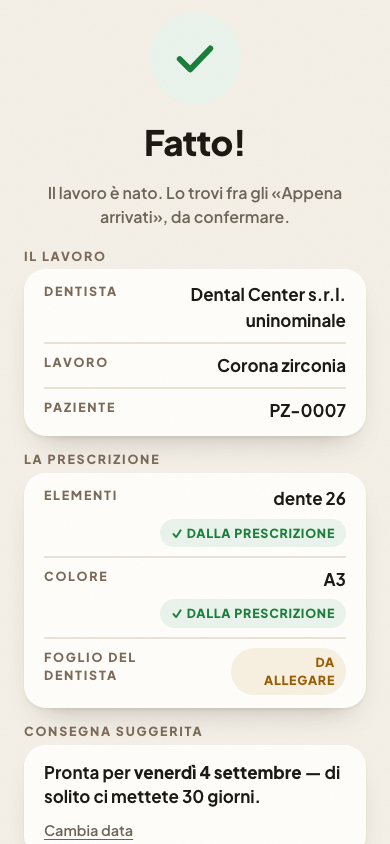
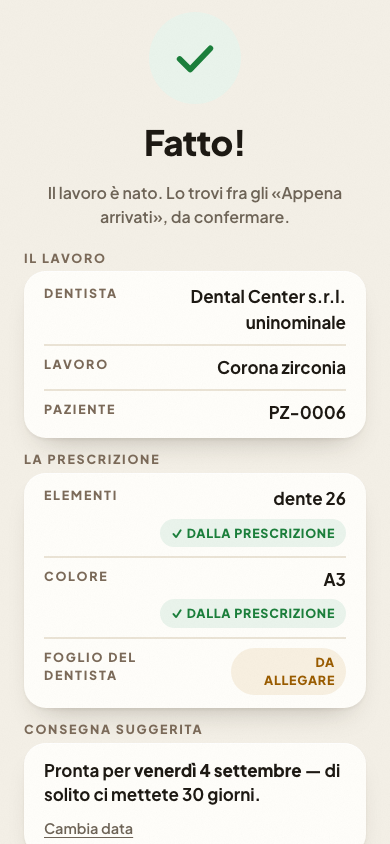
fix(ui): la revisione del delta trova un difetto NEL compattamento — 1px fra due bersagli
Due revisori indipendenti sul solo delta b983870e..HEAD (il resto del ramo era
già approvato). Verdetti: design system APPROVED, correttezza NEEDS FIXES —
e aveva ragione.

🔴 IL DIFETTO. `stileQuieti.marginTop` 18 → 14 sembrava uno spazio come un
   altro. Ma `LinkQuieto` compra la sua area toccabile da 44px con
   `padding 13px 0` + `margin -13px 0`, e quel −13 risale DENTRO il marginTop
   del contenitore (i margini di un flex item non collassano): l'aria vera fra
   l'area del tasto rosso e quella del primo quieto era `marginTop − 13`, cioè
   **1px**. Sulla schermata terminale del wizard: un pollice 2px basso su
   «Allega la prescrizione» apriva la fotocamera, e a fonte allegata se ne
   andava dalla schermata con «Torna alla home».
   🔑 È la STESSA aritmetica che il blocco 🛑 di questo file protegge fra i due
      quieti — e il compattamento l'aveva rotta dall'altro lato, tre righe più
      sotto il commento che la spiega. Ora 20 (spazio.ml): 7px, più dei 5 di
      partenza, e su griglia.

🔴 TRE SPAZIATURE FUORI GRIGLIA §4.2 introdotte dallo stesso compattamento: 18
   non esiste nella scala (4/8/12/16/20/24/32/44) e 14 è ammesso solo nel
   regime viewport ≤700px. Ora tutte da `spazio.*`. Il compattamento resta:
   −26px misurati (1093 → 1067), invece dei −30 fuori scala.
   ⚠ Nessuna guardia meccanica controlla la griglia — riferito nell'handoff.

🟡 `Avviso` senza tetto d'altezza: togliendo il taglio agli errori, quattro
[…]

diff --git a/src/components/features/wizard/FrameFatto.tsx b/src/components/features/wizard/FrameFatto.tsx
@@ -362,7 +362,7 @@ export function FrameFatto(props: {
       </div>
 
       {/* ── Carta ① «Il lavoro» — la caption sta FUORI dalla carta (mockup) ── */}
-      <section aria-labelledby={idCartaLavoro} style={{ marginTop: 18 }}>
+      <section aria-labelledby={idCartaLavoro} style={{ marginTop: spazio.ml }}>
         <p id={idCartaLavoro} style={stileCardTitolo}>Il lavoro</p>
         <CardInfo>
           <RigaDato chiave="Dentista" valore={dentista} />
@@ -377,7 +377,7 @@ export function FrameFatto(props: {
       </section>
 
       {/* ── Carta ② «La prescrizione» — ciò che viene dal foglio del dentista ── */}
-      <section aria-labelledby={idCartaPrescrizione} style={{ marginTop: 14 }}>
+      <section aria-labelledby={idCartaPrescrizione} style={{ marginTop: spazio.sm }}>
         <p id={idCartaPrescrizione} style={stileCardTitolo}>La prescrizione</p>
         <CardInfo>
           {dentiPrescritti.length > 0 && (
@@ -419,7 +419,7 @@ export function FrameFatto(props: {
         </CardInfo>
       </section>
 
-      <div style={{ marginTop: 14 }}>
+      <div style={{ marginTop: spazio.sm }}>
         <p style={stileCardTitolo}>Consegna suggerita</p>
         <div style={stileConsegnaBox}>
           <p style={stileFrase}>
@@ -435,7 +435,7 @@ export function FrameFatto(props: {
           Senza il foglio allegato l'unica cosa che vale un tasto rosso è il
           foglio: la foto dell'impronta scende a link quieto e resta a un tap.
           Con il foglio in archivio, il rosso torna quello di sempre. */}
-      <div style={{ marginTop: 20 }}>
+      <div style={{ marginTop: spazio.ml }}>
         {fonteConImmagine ? (
           <TastoPrimario onClick={apriFileInput} disabled={caricandoFoto} motivoDisabilitato="Un attimo…">
             Fotografa l&apos;impronta
@@ -488,6 +488,9 @@ export function FrameFatto(props: {
 }
 
 // D233① «compattiamo» (Francesco, gate L2 05/08) — gli spazi neutri si stringono.
+// ⚠ Ogni passo qui sotto sta sulla griglia §4.2 (4/8/12/16/20/24/32/44): 18 e
+//    14 NON ci sono, e 14 è ammesso solo sul regime viewport ≤700px — la prima
+//    stesura di questo compattamento li aveva usati, e la revisione li ha presi.
 // 🛑 NON si tocca: il cerchio Ø92 (valore verbatim del mockup approvato) né il
 //    gap 44 fra i due link quieti, che è un vincolo di SICUREZZA del pollice
 //    (0B-3: sotto quella misura le due aree da 44px si sovrappongono e il tap
@@ -498,8 +501,8 @@ const stileHead: CSSProperties = {
   flexDirection: 'column',
   alignItems: 'center',
   textAlign: 'center',
-  gap: 12,
-  marginTop: 4,
+  gap: spazio.sm,
+  marginTop: spazio.xs,
 }
 
 // wizard.html:179 .fatto-check — Ø92, tint verde.
@@ -615,7 +618,17 @@ const stilePastigliaAmbraSola: CSSProperties = {
 // spazio.sm (12) dava -14px (sovrapposizione, il secondo elemento del DOM
 // vince il tap); con spazio.xxl (44) dà 18px d'aria vera.
 const stileQuieti: CSSProperties = {
-  marginTop: 14,
+  // 🛑 20, e NON meno — trovato dalla revisione del gate L2, 05/08. `LinkQuieto`
+  //    compra la sua hit-box da 44px con `padding 13px 0` + `margin -13px 0`:
+  //    quel −13 risale DENTRO questo marginTop (i margini di un flex item non
+  //    collassano), quindi l'aria vera fra l'area toccabile del rosso e quella
+  //    del primo quieto è `marginTop − 13`. Con 14 faceva **1px**: un pollice
+  //    2px basso sul rosso «Allega la prescrizione» apriva la fotocamera, o —
+  //    a fonte allegata — se ne andava dalla schermata con «Torna alla home».
+  //    È la stessa aritmetica che il blocco 🛑 sopra `stileHead` protegge fra i
+  //    DUE quieti, e il compattamento l'aveva rotta dall'altro lato. Con 20 fa
+  //    7px, più di prima (erano 5), ed è un passo di griglia §4.2.
+  marginTop: spazio.ml,
   display: 'flex',
   flexDirection: 'column',
   alignItems: 'center',

diff --git a/src/components/features/lavori/scheda-v3/ModificaColoreSheet.tsx b/src/components/features/lavori/scheda-v3/ModificaColoreSheet.tsx
@@ -669,8 +669,16 @@ function Via(props: {
           </span>
           <span
             style={{
-              // 13.5 era fuori scala §4.1 (label 13, poi 15.5): gate L2 05/08.
-              fontSize: tipografia.size.label,
+              // 13.5 e NON `tipografia.size.label` (13) — corretto dalla revisione
+              // del gate L2, 05/08. Il numero era quasi giusto, il RUOLO no:
+              // §4.1 definisce `label` come etichetta MAIUSCOLA 800/+0.16em, e
+              // questa è una sotto-riga descrittiva minuscola in semibold. Il
+              // 13.5 non è un valore inventato: è quello che le anatomie §5.41
+              // e §5.42 usano per questo stesso ruolo (`FoglioCategoria.tsx:403`
+              // lo rende così), e che il gemello `AllegaPrescrizioneSheet` porta.
+              // ⚠ Il difetto vero è che la scala §4.1 non ha un gradino per
+              //    questo ruolo — riferito, non risolvibile qui.
+              fontSize: 13.5,
               display: 'block',
               fontWeight: tipografia.weight.semibold,
               color: 'var(--muted)',
@@ -771,7 +779,12 @@ const stileCambioPrima = {
 const stileCambioFreccia = {
   fontSize: tipografia.size.body,
   fontWeight: tipografia.weight.extrabold,
-  color: 'var(--faint)',
+  // `--muted` come l'etichetta accanto: la freccia vive nella STESSA scatola
+  // `--bg-deep`, dove `--faint` misura 4,17:1 (sotto AA in chiaro). È
+  // `aria-hidden` e quindi decorativa — difendibile lasciarla lì — ma la
+  // ragione scritta venti righe più sotto vale identica anche per lei, e una
+  // regola applicata a metà è una regola che la prossima revisione riapre.
+  color: 'var(--muted)',
 } as const
 
 // Gate L2 del 05/08 — DUE correzioni sulla stessa etichetta (TRASCRITTO/NUOVO):

diff --git a/src/components/features/lavori/scheda-v3/SchedaLavoroV3.tsx b/src/components/features/lavori/scheda-v3/SchedaLavoroV3.tsx
@@ -511,12 +511,11 @@ function SchedaLavoroV3Corpo(props: { lavoro: LavoroDettaglio; ruolo?: string | 
                 `scheda-colore` del mockup. Compare solo se un colore esiste
                 davvero (vivo o trascritto); è tappabile solo dove il tocco può
                 atterrare (v. `derivaRigaColore`).
-                ⚠ RIFERITO, non deciso qui (R-E2): con questa riga la carta
-                arriva a SEI righe e §5.10 ne fissa cinque. `CardInfo` per
-                progetto non ne nasconde nessuna e avvisa solo chi sviluppa —
-                quindi in sviluppo si vedrà l'avviso, ed è giusto che si veda:
-                il mockup approvato (scena 9) mostra sei righe, la spec ne
-                dichiara cinque, e chi scioglie il nodo non è questo task. */}
+                ✅ NODO SCIOLTO — D230 (gate L2, 05/08/2026). Con questa riga la
+                carta arriva a SEI righe: §5.10 ne fissava cinque, e ha vinto la
+                carta che Francesco ha approvato (D225②) invece della regola
+                scritta prima di vederla. La spec è emendata e l'avviso di
+                sviluppo che questa carta stampava a ogni render non c'è più. */}
             {rigaColore &&
               (rigaColore.modificabile ? (
                 <RigaEditabile

diff --git a/src/components/ds/Avviso.tsx b/src/components/ds/Avviso.tsx
@@ -303,6 +303,17 @@ const contenitoreStile = {
   maxWidth: 480,
   padding: `0 ${spazio.l}px`,
   pointerEvents: 'none' as const,
+  // Tetto d'altezza — conseguenza diretta di D234 (revisione del gate L2, 05/08).
+  // Gli errori non spariscono da soli, non hanno un limite di numero e `errore()`
+  // non deduplica: quattro tentativi falliti sulla stessa foto impilano quattro
+  // card, e senza il taglio a due righe le card sono più alte. Misurato a 390:
+  // il messaggio più lungo esistente (195 caratteri, `MESSAGGIO_FONTE_FILE_PERSO`)
+  // occupa ~219px, e alla quarta il «Chiudi» dell'ultima — che è l'UNICA via di
+  // uscita di un errore — finiva sotto la piega. Con questo tetto la pila
+  // scorre invece di sfondare: `top` è già `spazio.l`, quindi si sottrae due
+  // volte per lasciare la stessa aria in fondo.
+  maxHeight: `calc(100dvh - ${spazio.l * 2}px)`,
+  overflowY: 'auto' as const,
   // Esplicito e non solo "assenza di regola" (fix QA live Francesco round 2,
   // difesa in profondità oltre alla rimozione di `background` dalla regola
   // scope in ds-v3.css): il contenitore porta `data-ds="v3"` per i token, MA

diff --git a/src/components/ds/CardInfo.tsx b/src/components/ds/CardInfo.tsx
@@ -134,9 +134,10 @@ export function RigaDato(props: {
 
 /**
  * CardInfo — card di dati di sola lettura (§5.10): card 22 (`raggio.tile`),
- * padding 4/20, raccoglie fino a 5 `RigaDato` con un separatore 1.5 `--line`
- * tra una riga e l'altra (mai dopo l'ultima). Oltre le 5 righe di legge non
- * le nasconde — avvisa solo in dev (§5.10 non è applicabile a runtime).
+ * padding 4/20, raccoglie fino a 6 `RigaDato` (D230, 05/08/2026 — erano 5) con
+ * un separatore 1.5 `--line` tra una riga e l'altra (mai dopo l'ultima). Oltre
+ * le 6 righe di legge non le nasconde — avvisa solo in dev (§5.10 non è
+ * applicabile a runtime).
  */
 export function CardInfo(props: { children: ReactNode }) {
   const { children } = props

diff --git a/docs/roadmap/2026-08-05-ondata-b-sessione-3-handoff.md b/docs/roadmap/2026-08-05-ondata-b-sessione-3-handoff.md
@@ -53,15 +53,32 @@ costano una decisione, non un ritocco.
 
 
 ### ⑥ Due residui dichiarati, non «corretti»
-- **`progressivi_anno('lavoro', 2026)` è a 15.** Il giro del gate ha consumato 0013/0014/0015 e
+- **`progressivi_anno('lavoro', 2026)` è a 16.** Il giro del gate ha consumato 0013/0014/0015 e il
+  riscatto post-revisione 0016 e
   il contatore **non torna indietro** (è un contatore memorizzato, non un `max()` — G5 del giro
   precedente, che l'aveva già portato a 12). I conteggi delle tabelle sono alla **baseline esatta**
   e nessuna riga coi nostri id sopravvive: manca un numero nella serie, non un dato. Riavvolgerlo
   sarebbe una scrittura che nessuno ha chiesto.
-- **Sei scatti precedono di poco il compattamento.** `fatto-fonte-verde-*` (6 file) è stato preso
-  **prima** dei −30px di D233①, mentre `fatto-due-carte-*` è **dopo**: la stessa schermata compare
-  quindi in due spaziature. Differenza di soli margini, nessun altro scarto — ma scritta qui,
-  perché in questo repo un PNG che sembra lo stato corrente e non lo è è già costato due volte.
+- ✅ **Scatti allineati.** `fatto-due-carte-*` e `fatto-fonte-verde-*` sono stati **entrambi
+  rifatti dopo la revisione del delta**: mostrano le spaziature definitive (in griglia §4.2), non
+  quelle della prima stesura del compattamento.
+
+
+### ⑦ 🔎 RIFERITI dalla revisione del delta — fuori dai 12 file, NON corretti (R-E2)
+- 🛑 **QUARTA e QUINTA replica del difetto dark «faccia `--card` dentro un pannello `--card`», e
+  sono peggiori delle tre chiuse:** `TileScelta.tsx:75,88-89` (montata in `ModificaRigaSheet.tsx:194`,
+  il foglio **gemello** di quello corretto oggi) e `RigaCerca.tsx:33,45-46` (in
+  `CatalogoTipiSheet.tsx:101`). Entrambe hanno `border: 'none'` — quindi in scuro **spariscono del
+  tutto**, mentre `.ds-via-d212` almeno conservava il suo bordo. È **visibile oggi in produzione**.
+  🔑 La prova che il pattern era già noto: `.ds-parete-cerca` **ha** la sua regola dark
+  (`ds-v3.css:1049-1051`); il componente DS `.ds-riga-cerca` no.
+- **Due reti meccaniche mancano, e sono proprio quelle che avrebbero preso i difetti di oggi:**
+  ① l'unico controllo automatico di contrasto (`tests/unit/ds-v3/tokens.test.ts:29-35`) enumera solo
+  `card` e `bg` come fondi — **mai `bgDeep`, `elv`, né il token `faint`**: il difetto AA chiuso oggi
+  non aveva nessuna guardia, e non ce l'ha nemmeno adesso per la prossima volta;
+  ② **nessuna guardia sulla griglia delle spaziature §4.2** (`check-ds-compliance.sh` controlla
+  colori, gold-come-testo, shadow e hex, non i passi) — è il motivo per cui la prima stesura del
+  compattamento ha potuto introdurre 18 e 14 senza che nulla suonasse.
 
 ### ⑤ Il collaudo di P37 si fa SOLO su build di produzione (G1) — invariato
 In `npm run dev` StrictMode rimonta lo Sheet e l'entry di storia si mangia il foglio (~80ms).

diff --git a/docs/design/audit-ui-ux/LIVELLO-1-scheda-v3.md b/docs/design/audit-ui-ux/LIVELLO-1-scheda-v3.md
@@ -41,7 +41,7 @@ Passare la [checklist](./CHECKLIST-DS-V3-UI-UX.md) su **3 viewport × 2 temi** p
 3. **`:focus-visible` assente** sui bottoni inline-styled v3 (NotaLaboratorio, righe, voci menu) — outline nativo presente ma non lo stile v3 (BACKLOG O6f).
 4. **`aria-label="Modifica scadenza"`** sulla riga consegna: divergenza WCAG label-in-name (test-driven per non collidere con CONSEGNA). Valutare «Modifica consegna» + query test più specifica (BACKLOG O6f).
 5. **Empty-note-add:** dalla scheda non si può aggiungere la *prima* nota (la card appare solo se `note_interne` presente) — manca affordance empty-state (BACKLOG O6d).
-6. **CardInfo >5 righe:** warning dev quando un ciclo ha 6-8 fasi (CardInfo pensata per ≤5 righe); valutare presentazione fasi quando numerose (BACKLOG O6c/§5.10).
+6. ~~**CardInfo >5 righe:**~~ 🔄 **AGGIORNATA — D230 (05/08/2026): il massimo di legge è SEI**, non cinque (la carta «Il lavoro» approvata da Francesco ne ha sei). Resta vero il resto della voce: l'avviso di sviluppo scatta ora a **7+**, quindi un ciclo con 7-8 fasi lo fa ancora scattare, e la presentazione delle fasi quando sono numerose è ancora da valutare (BACKLOG O6c/§5.10).
 7. **RifacimentoButton** riusato porta token/stile DS-v2 in superficie v3 → incoerenza estetica (BACKLOG O6e).
 
 ## 4. Processo (rifinitura, non nuova UI)
